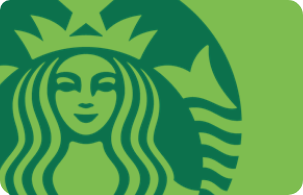
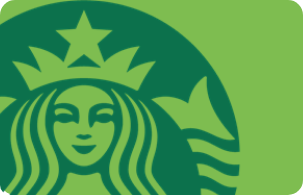
adds card code to card back view

diff --git a/src/starbucks/main/CardBackView.java b/src/starbucks/main/CardBackView.java
@@ -21,14 +21,22 @@ public class CardBackView implements IDisplayComponent, ITouchEventHandler {
             Constants.CARD_HEIGHT
         );
 
-        // card number
+        // card details
         starbucks.textFont(starbucks.createFont(Constants.ROBOTO_MED_PATH, 18));
         starbucks.fill(0);
-        starbucks.textSize(24);
+        starbucks.textSize(22);
         starbucks.textAlign(PApplet.CENTER);
+        // card number
         starbucks.text(
             card.cardNum(),
-            220,
+            180,
+            Constants.NOTIF_BAR_HEIGHT + Constants.APP_BAR_HEIGHT + Constants.CARD_NUM_TOP_PADDING
+        );
+        // card code
+        starbucks.textSize(18);
+        starbucks.text(
+            card.cardCode(),
+            310,
             Constants.NOTIF_BAR_HEIGHT + Constants.APP_BAR_HEIGHT + Constants.CARD_NUM_TOP_PADDING
         );
     }

diff --git a/src/starbucks/main/Constants.java b/src/starbucks/main/Constants.java
@@ -58,7 +58,7 @@ public class Constants {
     public static final int CARD_WIDTH = 303;
     public static final int CARD_HEIGHT = 195;
     public static final int CARD_TOP_PADDING = 35;
-    public static final int CARD_NUM_TOP_PADDING = 87;
+    public static final int CARD_NUM_TOP_PADDING = 84;
 
     // pin screen
     public static final int PIN_BLOCK_Y = 130;

diff --git a/src/starbucks/main/Starbucks.java b/src/starbucks/main/Starbucks.java
@@ -6,7 +6,7 @@ public class Starbucks extends PApplet {
 
     public void settings() {
         size(Constants.SCREEN_WIDTH, Constants.SCREEN_HEIGHT);
-        app = (IApp) Device.getNewDevice(this, "1234");
+        app = (IApp) Device.getNewDevice(this, "");
         // grid = new Grid(this);
     }
 
